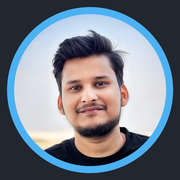
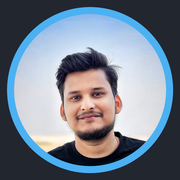
Add files via upload

Changed region(s): [[0.1389, 0.0556, 0.8611, 0.8889], [0.1667, 0.3056, 0.1944, 0.3333]]

diff --git a/LaunchSplash.tsx b/LaunchSplash.tsx
@@ -14,8 +14,8 @@ export const LaunchSplash: React.FC<LaunchSplashProps> = ({ onDone }) => {
       typeof window !== "undefined" &&
       window.matchMedia("(prefers-reduced-motion: reduce)").matches;
 
-    const holdMs = reduced ? 450 : 1550;
-    const exitMs = reduced ? 180 : 420;
+    const holdMs = reduced ? 420 : 1450;
+    const exitMs = reduced ? 180 : 480;
 
     const fadeTimer = window.setTimeout(() => {
       setExiting(true);
@@ -37,7 +37,7 @@ export const LaunchSplash: React.FC<LaunchSplashProps> = ({ onDone }) => {
   const handleDismissEarly = () => {
     if (exiting) return;
     setExiting(true);
-    earlyDismissTimerRef.current = window.setTimeout(onDone, 260);
+    earlyDismissTimerRef.current = window.setTimeout(onDone, 280);
   };
 
   return (
@@ -45,29 +45,39 @@ export const LaunchSplash: React.FC<LaunchSplashProps> = ({ onDone }) => {
       role="status"
       aria-label="Opening AmaySST Quiz"
       onClick={handleDismissEarly}
-      className={`fixed inset-0 z-50 flex flex-col items-center justify-center px-6 select-none cursor-pointer bg-[#EDF2FB] dark:bg-[#060A16] transition-[opacity,transform] duration-[420ms] ease-[cubic-bezier(0.16,1,0.3,1)] ${
+      className={`fixed inset-0 z-50 flex flex-col items-center justify-center px-6 select-none cursor-pointer bg-[#EDF2FB] dark:bg-[#060A16] transition-[opacity,transform] duration-[480ms] ease-[cubic-bezier(0.16,1,0.3,1)] ${
         exiting ? "opacity-0 scale-[1.03] pointer-events-none" : "opacity-100 scale-100"
       }`}
     >
       <div className="amay-bg-mesh" aria-hidden="true" />
 
       <div className="relative z-10 flex flex-col items-center text-center max-w-xs w-full">
-        {/* Animated Photo Lockup */}
+        {/* Smooth Layered Halo + Portrait Lockup */}
         <div className="relative flex items-center justify-center mb-6">
           <div
             aria-hidden="true"
-            className="amay-splash-ring absolute w-32 h-32 sm:w-36 sm:h-36 rounded-full border-2 border-[#2B9BF6]/60 dark:border-[#5AA2FF]/50"
+            className="amay-splash-glow absolute w-40 h-40 rounded-full bg-[#2B9BF6]/20 dark:bg-[#38B0FF]/20 blur-2xl"
           />
 
-          <div className="amay-splash-photo relative w-28 h-28 sm:w-32 sm:h-32 rounded-full p-[4px] bg-gradient-to-br from-[#38B0FF] via-[#1457E0] to-[#0B3BA8] shadow-[0_22px_48px_-14px_rgba(20,87,224,0.65)]">
-            <div className="w-full h-full rounded-full overflow-hidden bg-white dark:bg-[#111A32] ring-2 ring-white/90 dark:ring-[#0B1224]">
+          <div
+            aria-hidden="true"
+            className="amay-splash-ring absolute w-32 h-32 sm:w-36 sm:h-36 rounded-full border-2 border-[#2B9BF6]/55 dark:border-[#5AA2FF]/50"
+          />
+
+          <div
+            aria-hidden="true"
+            className="amay-splash-ring-delayed absolute w-32 h-32 sm:w-36 sm:h-36 rounded-full border border-[#38B0FF]/40 dark:border-[#5AA2FF]/35"
+          />
+
+          <div className="amay-splash-photo relative w-28 h-28 sm:w-32 sm:h-32 rounded-full p-[4px] bg-gradient-to-br from-[#4BC0FF] via-[#2B9BF6] to-[#1457E0] shadow-[0_22px_48px_-14px_rgba(20,87,224,0.65)]">
+            <div className="w-full h-full rounded-full overflow-hidden bg-[#22262F] ring-2 ring-white/85 dark:ring-[#0B1224]">
               {!imgFailed ? (
                 <img
                   src="./amay-avatar.jpg"
                   alt="AmaySST Quiz"
                   referrerPolicy="no-referrer"
                   onError={() => setImgFailed(true)}
-                  className="w-full h-full object-cover object-center scale-105 block"
+                  className="w-full h-full object-cover object-center block"
                 />
               ) : (
                 <div className="w-full h-full flex items-center justify-center bg-gradient-to-br from-[#2B9BF6] to-[#1457E0] text-white text-3xl font-extrabold">
@@ -79,7 +89,7 @@ export const LaunchSplash: React.FC<LaunchSplashProps> = ({ onDone }) => {
         </div>
 
         {/* Animated Brand Text */}
-        <h1 className="amay-splash-title text-[32px] sm:text-[36px] font-extrabold tracking-tight leading-none text-[#0B1B4D] dark:text-[#EAF0FF]">
+        <h1 className="amay-splash-title font-display text-[32px] sm:text-[36px] font-extrabold tracking-tight leading-none text-[#0B1B4D] dark:text-[#EAF0FF]">
           AmaySST <span className="text-[#1457E0] dark:text-[#5AA2FF]">Quiz</span>
         </h1>
 
@@ -88,8 +98,8 @@ export const LaunchSplash: React.FC<LaunchSplashProps> = ({ onDone }) => {
         </p>
 
         {/* Smooth Progress Sweep */}
-        <div className="mt-6 w-28 h-1 rounded-full bg-[#1457E0]/15 dark:bg-white/10 overflow-hidden">
-          <div className="amay-splash-bar h-full w-full rounded-full bg-gradient-to-r from-[#38B0FF] to-[#1457E0]" />
+        <div className="mt-6 w-32 h-1.5 rounded-full bg-[#1457E0]/15 dark:bg-white/10 overflow-hidden">
+          <div className="amay-splash-bar amay-xp-flow h-full w-full rounded-full" />
         </div>
       </div>
     </div>

diff --git a/index.css b/index.css
@@ -189,12 +189,12 @@
 
 @keyframes amaySplashPhotoIn {
   0% {
-    opacity: 0;
-    transform: scale(0.7) translateY(20px);
+    opacity: 0.45;
+    transform: scale(0.9) translateY(6px);
   }
   65% {
     opacity: 1;
-    transform: scale(1.04) translateY(-2px);
+    transform: scale(1.02) translateY(-1px);
   }
   100% {
     opacity: 1;
@@ -202,32 +202,47 @@
   }
 }
 
+@keyframes amaySplashGlowPulse {
+  0% {
+    opacity: 0.25;
+    transform: scale(0.88);
+  }
+  50% {
+    opacity: 0.72;
+    transform: scale(1.08);
+  }
+  100% {
+    opacity: 0.4;
+    transform: scale(1);
+  }
+}
+
 @keyframes amaySplashRingExpand {
   0% {
-    opacity: 0.65;
-    transform: scale(0.84);
+    opacity: 0.7;
+    transform: scale(0.88);
   }
   100% {
     opacity: 0;
-    transform: scale(1.48);
+    transform: scale(1.62);
   }
 }
 
 @keyframes amaySplashTextIn {
   0% {
     opacity: 0;
-    transform: translateY(16px) scale(0.97);
+    transform: translateY(14px);
   }
   100% {
     opacity: 1;
-    transform: translateY(0) scale(1);
+    transform: translateY(0);
   }
 }
 
 @keyframes amaySplashBarFill {
   0% {
-    opacity: 0.45;
-    transform: scaleX(0);
+    opacity: 0.4;
+    transform: scaleX(0.06);
   }
   100% {
     opacity: 1;
@@ -236,28 +251,38 @@
 }
 
 .amay-splash-photo {
-  animation: amaySplashPhotoIn 720ms cubic-bezier(0.16, 1, 0.3, 1) both;
+  animation: amaySplashPhotoIn 620ms cubic-bezier(0.16, 1, 0.3, 1) both;
+  will-change: transform, opacity;
+}
+
+.amay-splash-glow {
+  animation: amaySplashGlowPulse 1600ms cubic-bezier(0.16, 1, 0.3, 1) both;
   will-change: transform, opacity;
 }
 
 .amay-splash-ring {
-  animation: amaySplashRingExpand 1250ms cubic-bezier(0.16, 1, 0.3, 1) 180ms both;
+  animation: amaySplashRingExpand 1350ms cubic-bezier(0.16, 1, 0.3, 1) 100ms both;
+  will-change: transform, opacity;
+}
+
+.amay-splash-ring-delayed {
+  animation: amaySplashRingExpand 1350ms cubic-bezier(0.16, 1, 0.3, 1) 360ms both;
   will-change: transform, opacity;
 }
 
 .amay-splash-title {
-  animation: amaySplashTextIn 640ms cubic-bezier(0.16, 1, 0.3, 1) 180ms both;
+  animation: amaySplashTextIn 580ms cubic-bezier(0.16, 1, 0.3, 1) 120ms both;
   will-change: transform, opacity;
 }
 
 .amay-splash-subtitle {
-  animation: amaySplashTextIn 640ms cubic-bezier(0.16, 1, 0.3, 1) 320ms both;
+  animation: amaySplashTextIn 580ms cubic-bezier(0.16, 1, 0.3, 1) 230ms both;
   will-change: transform, opacity;
 }
 
 .amay-splash-bar {
   transform-origin: left center;
-  animation: amaySplashBarFill 1150ms cubic-bezier(0.22, 1, 0.36, 1) 240ms both;
+  animation: amaySplashBarFill 1100ms cubic-bezier(0.22, 1, 0.36, 1) 180ms both;
   will-change: transform, opacity;
 }
 
@@ -389,7 +414,9 @@
   .amay-xp-flow,
   .amay-tip-orb,
   .amay-splash-photo,
+  .amay-splash-glow,
   .amay-splash-ring,
+  .amay-splash-ring-delayed,
   .amay-splash-title,
   .amay-splash-subtitle,
   .amay-splash-bar,

diff --git a/index.html b/index.html
@@ -20,8 +20,8 @@
     <meta name="apple-mobile-web-app-capable" content="yes" />
     <meta name="apple-mobile-web-app-status-bar-style" content="default" />
     <meta name="apple-mobile-web-app-title" content="AmaySST" />
-    <link rel="icon" type="image/png" href="./icon-192.png?v=2" />
-    <link rel="apple-touch-icon" href="./apple-touch-icon.png?v=2" />
+    <link rel="icon" type="image/png" href="./icon-192.png?v=3" />
+    <link rel="apple-touch-icon" href="./apple-touch-icon.png?v=3" />
     <link rel="preconnect" href="https://fonts.googleapis.com" />
     <link rel="preconnect" href="https://fonts.gstatic.com" crossorigin />
     <link
@@ -58,6 +58,20 @@
             fallback +
             ";end";
           window.location.replace(intentUrl);
+        } catch (e) {}
+      })();
+    </script>
+    <script>
+      (function () {
+        try {
+          var raw = localStorage.getItem("r10");
+          var t = raw ? JSON.parse(raw).theme : "";
+          var isDark =
+            t === "dark" ||
+            (t !== "light" &&
+              window.matchMedia &&
+              window.matchMedia("(prefers-color-scheme: dark)").matches);
+          if (isDark) document.documentElement.classList.add("dark");
         } catch (e) {}
       })();
     </script>

diff --git a/vite.config.ts b/vite.config.ts
@@ -30,7 +30,7 @@ export default defineConfig(() => {
           description:
             'Practice quizzes across Mathematics, Science, Social Science, English, Hindi, and Current Affairs with XP, streaks, live rankings, and shareable badges.',
           theme_color: '#1457E0',
-          background_color: '#EDF2FB',
+          background_color: '#060A16',
           display: 'standalone',
           start_url: './',
           scope: './',
@@ -43,19 +43,19 @@ export default defineConfig(() => {
           ],
           icons: [
             {
-              src: './icon-192.png?v=2',
+              src: './icon-192.png?v=3',
               sizes: '192x192',
               type: 'image/png',
               purpose: 'any',
             },
             {
-              src: './icon-512.png?v=2',
+              src: './icon-512.png?v=3',
               sizes: '512x512',
               type: 'image/png',
               purpose: 'any',
             },
             {
-              src: './icon-maskable-512.png?v=2',
+              src: './icon-maskable-512.png?v=3',
               sizes: '512x512',
               type: 'image/png',
               purpose: 'maskable',

diff --git a/Header.tsx b/Header.tsx
@@ -30,7 +30,7 @@ export const Header: React.FC<HeaderProps> = ({
             src="./amay-avatar.jpg"
             alt="AmaySST logo"
             referrerPolicy="no-referrer"
-            className="w-full h-full object-cover object-center scale-105 block"
+            className="w-full h-full object-cover object-center block"
           />
         </div>
         <span className="text-[17px] sm:text-[20px] font-extrabold tracking-tight text-[#0B1B4D] dark:text-[#EAF0FF] whitespace-nowrap truncate">

diff --git a/PWAInstallModal.tsx b/PWAInstallModal.tsx
@@ -37,7 +37,7 @@ export const PWAInstallModal: React.FC<PWAInstallModalProps> = ({
 
         <div className="flex items-center gap-3.5 pr-8">
           <img
-            src="./icon-192.png?v=2"
+            src="./icon-192.png?v=3"
             alt="AmaySST Quiz app icon"
             className="w-14 h-14 rounded-2xl shadow-md border border-[#1457E0]/15 shrink-0 object-cover"
           />
